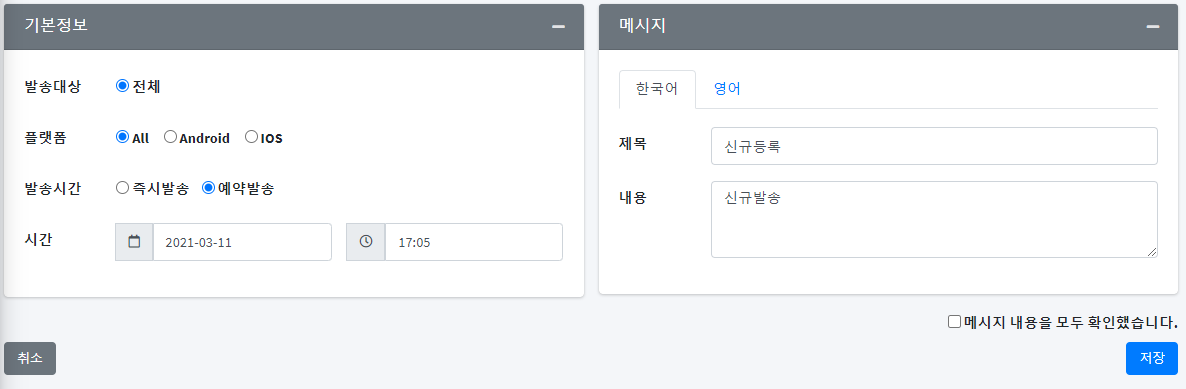
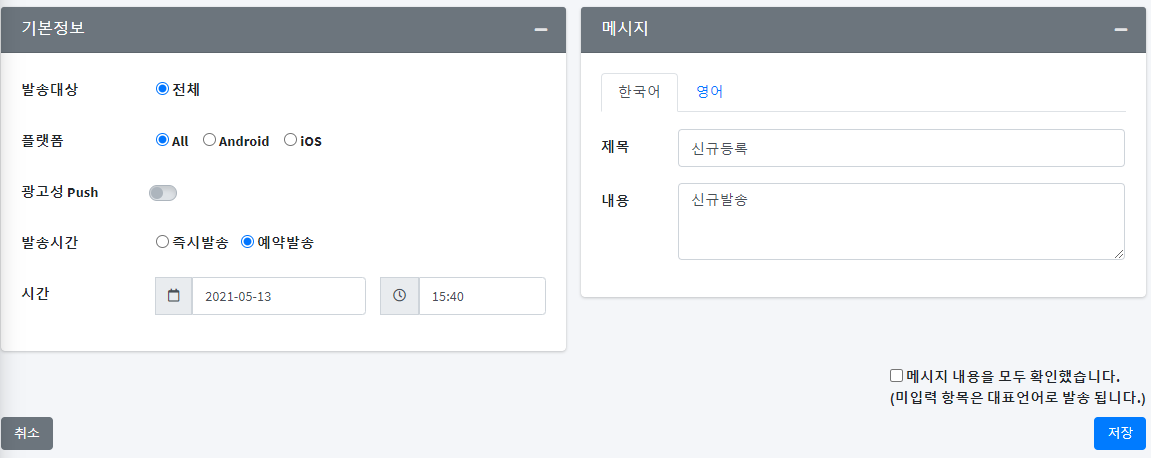
푸쉬 광고성수신 기능 추가

diff --git a/admin-doc.md b/admin-doc.md
@@ -197,14 +197,23 @@ PubSDK API - Ping 호출 시 회원 정보 블럭 상태 조회 결과 반환을
 
 ##### 등록
 
-**언어, 플랫폼, 야간푸쉬동의, 발송시간에 맞추어 로그인 시 등록된 정보를 대상을 판별하여 발송**
+**언어, 플랫폼, 광고성수신, 야간푸쉬동의, 발송시간에 맞추어 로그인 시 등록된 정보를 대상을 판별하여 발송**
 
 {% hint style="info" %}
-마지막 로그인이 2달이 지나면 Push 발송 대상에서 제거됨.
+마지막 로그인이 2달이 지나면 Push 발송 대상에서 제거되며, 추후 로그인시 발송 대상자에 포함 됩니다.
 {% endhint %}
 
 ![](https://github.com/gamepubcorp/guide/blob/main/image-admin/20.png?raw=true)
 
+* 푸쉬 발송 기준
+  * 미등록 언어 대상자
+    * 대표 언어 메시지로 발송
+  * 푸쉬동의
+    * 푸쉬수신 허용 대상자 발송
+  * 광고성수신
+    * 광고수신 허용 대상자 발송
+  * 야간수신동의 (KST 기준 21시 ~ 08시)
+    * 야간수신 허용 대상자 발송
 
 #### 반복관리
 
